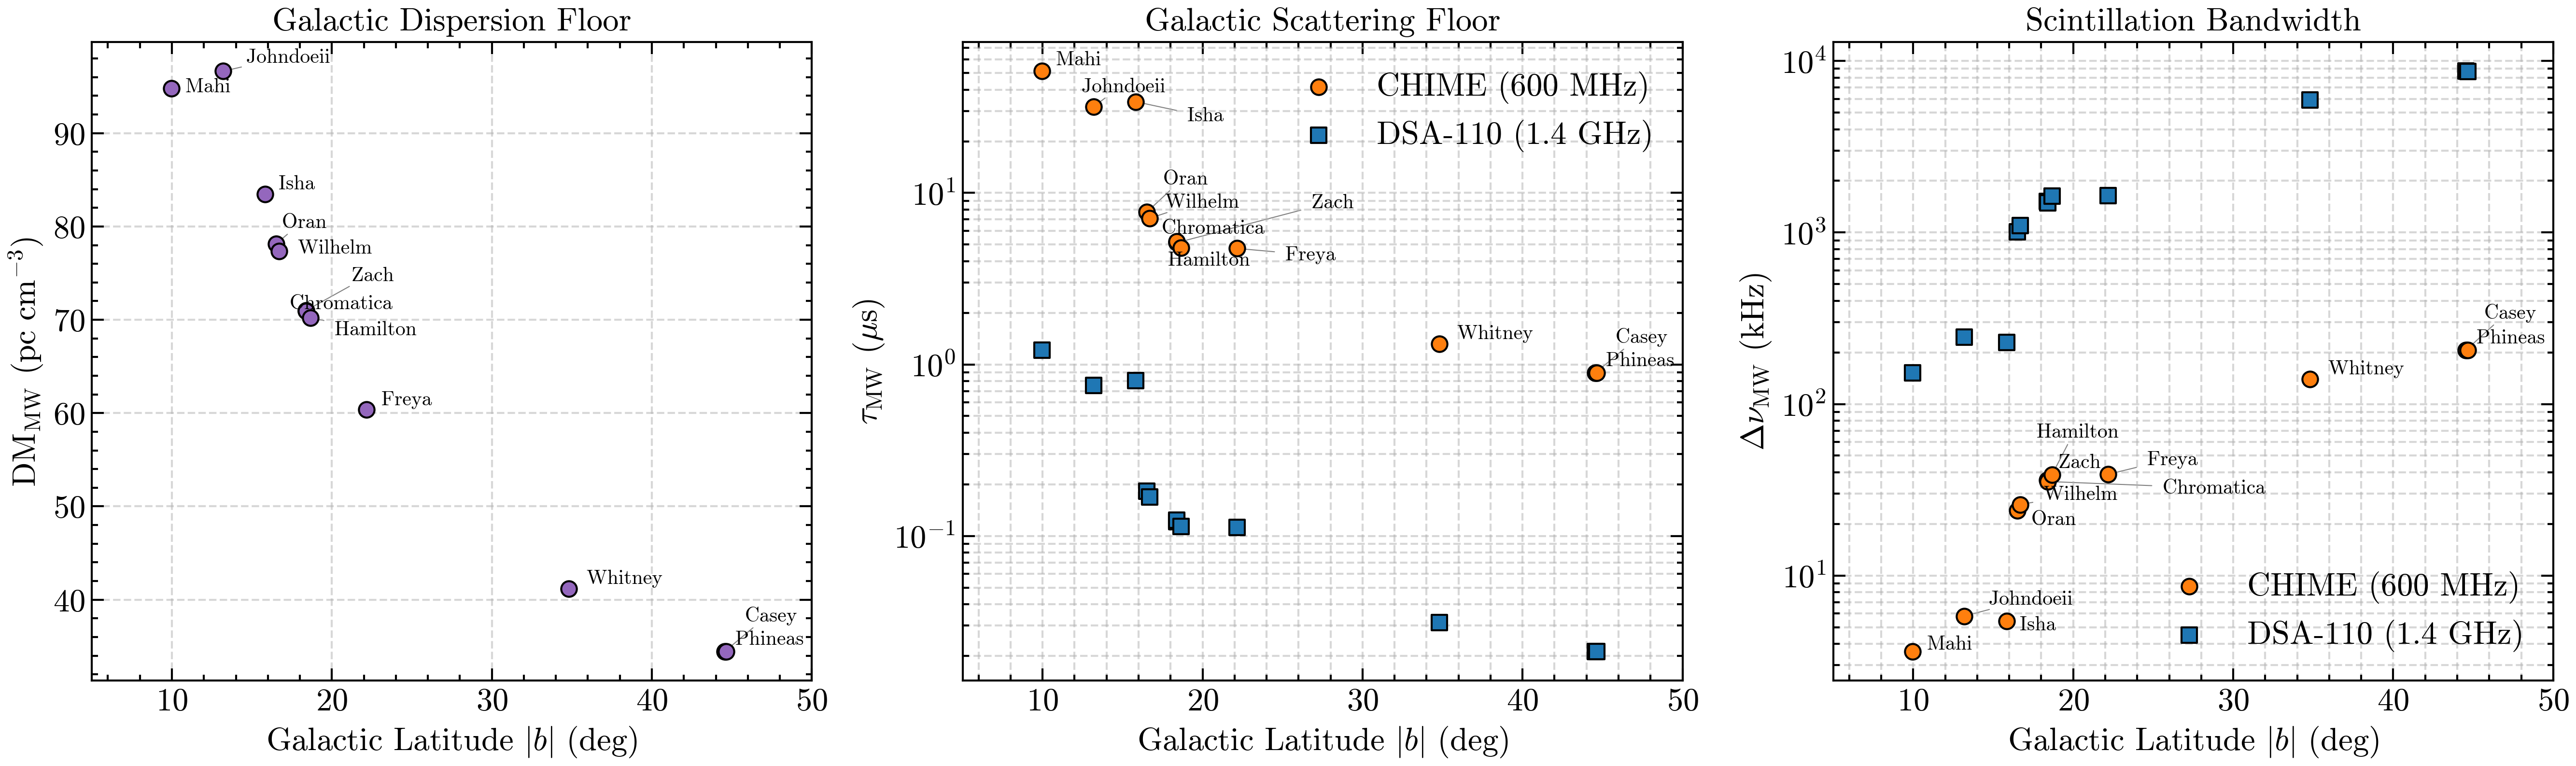
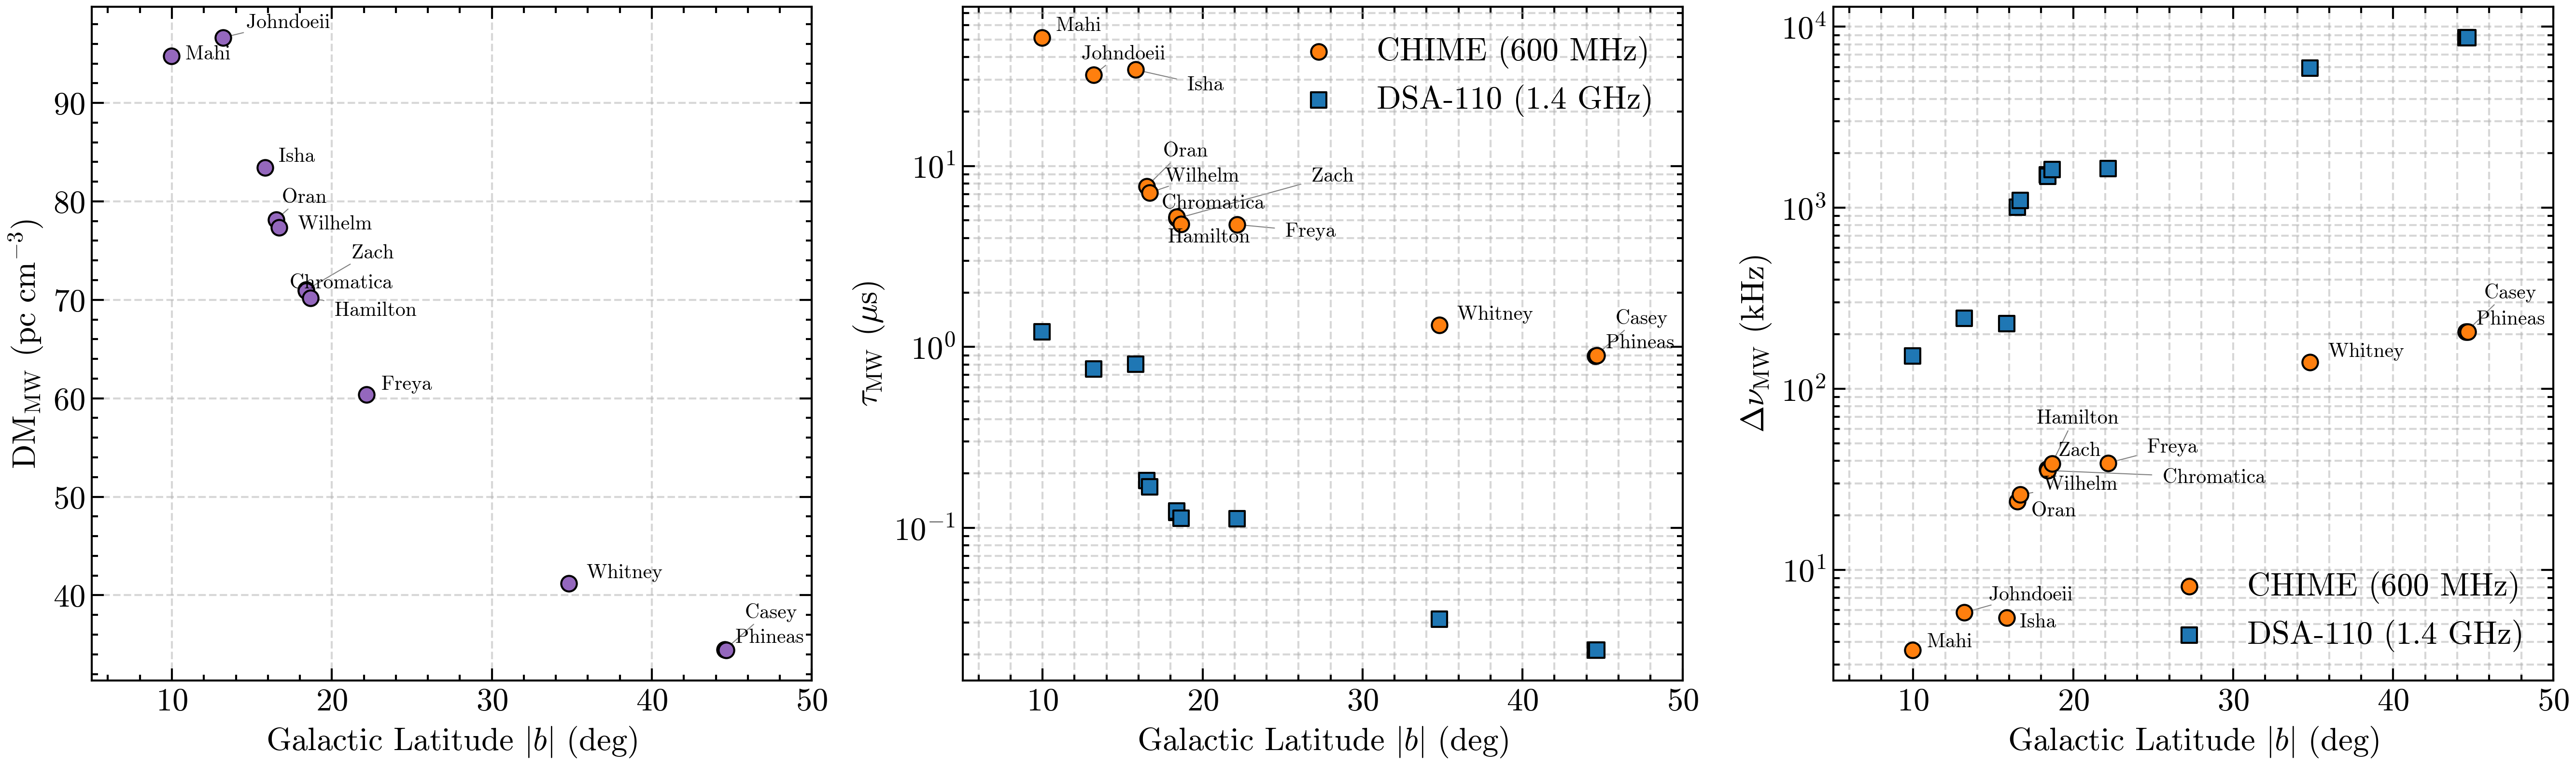
remove sub-panel figure titles from ne2025 characterization plot

diff --git a/docs/rse/board/readiness.html b/docs/rse/board/readiness.html
@@ -228,6 +228,13 @@
 <div class="card">
 <!-- JOURNAL:BEGIN -->
 <ul class="journal">
+<li><span class="jts mono">07-07 07:01</span><span class="jagent">antigravity-gemini/session-2026-07-07</span><span class="jlane">repo</span><span class="jnote s-good">removed sub-panel figure titles and regenerated figures</span></li>
+<li><span class="jts mono">07-07 06:55</span><span class="jagent">codex-gpt-5.5/dm-power-2026-07-07</span><span class="jlane">V6</span><span class="jnote s-ready">completed higher-resolution CHIME/DSA DM-power refinements; Wilhelm CHIME now constrained</span></li>
+<li><span class="jts mono">07-07 06:51</span><span class="jagent">antigravity-gemini/session-2026-07-07</span><span class="jlane">repo</span><span class="jnote s-good">added figures and updated spec + artifact files with ne2025 visualization</span></li>
+<li><span class="jts mono">07-07 06:50</span><span class="jagent">codex-gpt-5.5/dm-power-2026-07-07</span><span class="jlane">V6</span><span class="jnote s-ready">completed full lightweight DM-power run for 24 telescope rows; inspecting constrained/unconstrained outcomes</span></li>
+<li><span class="jts mono">07-07 06:49</span><span class="jagent">cursor-composer</span><span class="jlane">repo</span><span class="jnote s-now">Codex gpt-5.5 running Fable must-fix on codetection (logs/codex-codetection-mustfix-*)</span></li>
+<li><span class="jts mono">07-07 06:48</span><span class="jagent">codex-gpt-5.5/dm-power-2026-07-07</span><span class="jlane">V6</span><span class="jnote s-now">full DM-power run was killed by harness; resuming in smaller batches</span></li>
+<li><span class="jts mono">07-07 06:47</span><span class="jagent">cursor-composer</span><span class="jlane">repo</span><span class="jnote s-now">Dispatch Codex gpt-5.5 on Fable must-fix codetection items</span></li>
 <li><span class="jts mono">07-07 06:43</span><span class="jagent">antigravity-gemini/session-2026-07-07</span><span class="jlane">repo</span><span class="jnote s-good">completed characterization of MW properties along co-detection sightlines using NE2025</span></li>
 <li><span class="jts mono">07-07 06:42</span><span class="jagent">cursor-composer</span><span class="jlane">repo</span><span class="jnote s-good">Claude Fable 5 codetection prototype review captured in logs/codex-fable-codetection-review.txt</span></li>
 <li><span class="jts mono">07-07 06:41</span><span class="jagent">antigravity-gemini/session-2026-07-07</span><span class="jlane">repo</span><span class="jnote s-now">started characterization of MW properties along each sightline using NE2025</span></li>
@@ -241,13 +248,6 @@
 <li><span class="jts mono">07-07 06:28</span><span class="jagent">codex-gpt-5.5/review-2026-07-07</span><span class="jlane">repo</span><span class="jnote s-now">reviewing Antigravity DM-power implementation plan against repo and upstream reference</span></li>
 <li><span class="jts mono">07-07 06:23</span><span class="jagent">antigravity-gemini/session-2026-07-07</span><span class="jlane">repo</span><span class="jnote s-good">wrote Codex prompt and implementation plan for Fourier-domain DM-power optimization on CHIME and DSA</span></li>
 <li><span class="jts mono">07-07 06:17</span><span class="jagent">antigravity-gemini/session-2026-07-07</span><span class="jlane">repo</span><span class="jnote s-good">answered user query on DM measurement method for codetected FRBs</span></li>
-<li><span class="jts mono">07-07 06:17</span><span class="jagent">antigravity-gemini/session-2026-07-07</span><span class="jlane">repo</span><span class="jnote s-ready">received user query on DM measurement method for codetected FRBs; initiating repo search</span></li>
-<li><span class="jts mono">07-07 06:14</span><span class="jagent">cursor-composer/session-codetection</span><span class="jlane">repo</span><span class="jnote s-ready">user Q on CHIME/DSA ToA alignment in codetection figures; explained load_codetection_bands + toa_crossmatch_results.json measured_offset_ms</span></li>
-<li><span class="jts mono">07-07 06:03</span><span class="jagent">codex-gpt-5.5/session-2026-07-07</span><span class="jlane">V4</span><span class="jnote s-now">Owner redirected sprint to substance-first revalidation: foreground analyses first, then DM, 2D scattering, scintillation, two-screen, and results/discussion drafting.</span></li>
-<li><span class="jts mono">07-07 05:58</span><span class="jagent">codex-gpt-5.5/session-2026-07-07</span><span class="jlane">ms</span><span class="jnote s-ready">Commit circulation-safe manuscript scaffold after build/text-scan/closeout validation; unrelated pipeline/log/DM-audit dirt stays out.</span></li>
-<li><span class="jts mono">07-07 05:56</span><span class="jagent">codex-gpt-5.5/session-2026-07-07</span><span class="jlane">ms</span><span class="jnote s-good">Built circulation-safe scaffold with rtk make; starting final verification and five-hour sprint summary.</span></li>
-<li><span class="jts mono">07-07 05:56</span><span class="jagent">codex-gpt-5.5/session-2026-07-07</span><span class="jlane">ms</span><span class="jnote s-ready">Patched compiled manuscript prose into collaborator-safe circulation scaffold: abstract/status note/intro/observations/TOA/energy/conclusions remove visible revoked values.</span></li>
-<li><span class="jts mono">07-07 05:56</span><span class="jagent">cursor-composer</span><span class="jlane">repo</span><span class="jnote s-good">Unified band label fontsize (min cap across bands)</span></li>
 </ul>
 <!-- JOURNAL:END -->
 </div>

diff --git a/scripts/plot_ne2025_mw_properties.py b/scripts/plot_ne2025_mw_properties.py
@@ -34,7 +34,6 @@ c_dm = "tab:purple"
 ax0 = axes[0]
 ax0.scatter(df["abs_b"], df["dm_mw_pc_cm3"], color=c_dm, s=60, edgecolor="k", zorder=3)
 ax0.set_ylabel(r"$\mathrm{DM}_{\mathrm{MW}}$ ($\mathrm{pc\ cm}^{-3}$)")
-ax0.set_title("Galactic Dispersion Floor")
 ax0.grid(True, linestyle="--", alpha=0.5)
 
 # 2. Middle Panel: tau vs |b|
@@ -43,7 +42,6 @@ ax1.scatter(df["abs_b"], df["tau_chime_us"], color=c_chime, marker="o", s=60, ed
 ax1.scatter(df["abs_b"], df["tau_dsa_us"], color=c_dsa, marker="s", s=60, edgecolor="k", label="DSA-110 (1.4 GHz)", zorder=3)
 ax1.set_yscale("log")
 ax1.set_ylabel(r"$\tau_{\mathrm{MW}}$ ($\mu\mathrm{s}$)")
-ax1.set_title("Galactic Scattering Floor")
 ax1.legend(loc="upper right")
 ax1.grid(True, linestyle="--", alpha=0.5, which="both")
 
@@ -53,7 +51,6 @@ ax2.scatter(df["abs_b"], df["sbw_chime_khz"], color=c_chime, marker="o", s=60, e
 ax2.scatter(df["abs_b"], df["sbw_dsa_khz"], color=c_dsa, marker="s", s=60, edgecolor="k", label="DSA-110 (1.4 GHz)", zorder=3)
 ax2.set_yscale("log")
 ax2.set_ylabel(r"$\Delta\nu_{\mathrm{MW}}$ ($\mathrm{kHz}$)")
-ax2.set_title("Scintillation Bandwidth")
 ax2.legend(loc="lower right")
 ax2.grid(True, linestyle="--", alpha=0.5, which="both")
 